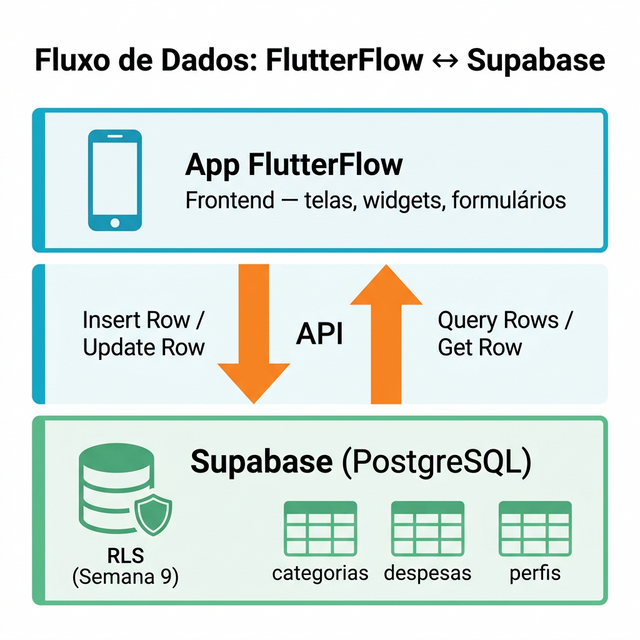
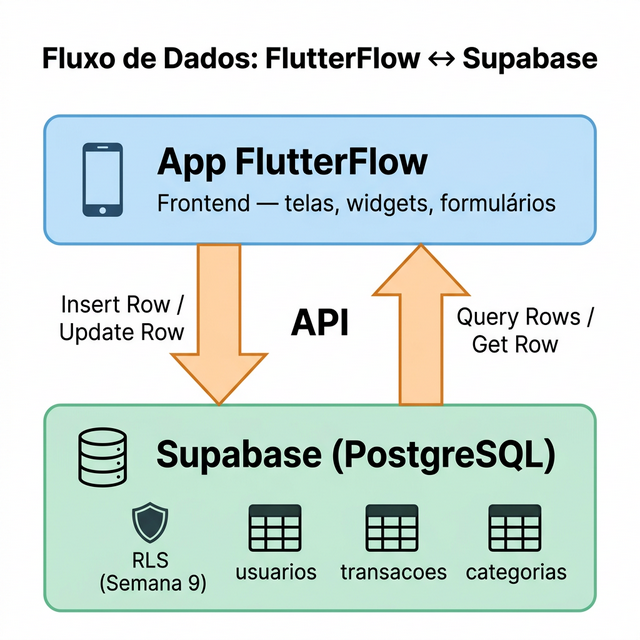
docs: atualização de figuras

diff --git a/OEBPS/text/sem06.html b/OEBPS/text/sem06.html
@@ -662,52 +662,68 @@ ESTRUTURA DE DADOS
 Categoria: nome, icone, cor
 Transação: tipo (Renda ou Despesa), descricao, valor, data, categoria, usuario
 
-TELAS
+PÁGINAS (gerar uma por vez no FlutterFlow)
 
-1) Login / Cadastro
+1) Login (página: login)
+- Abas "Criar Conta" e "Entrar"
 - Campo de e-mail
-- Campo de senha
-- Botão "Entrar"
-- Link "Criar conta"
-- Layout centralizado e simples
+- Campo de senha com botão mostrar/ocultar
+- Campo de confirmar senha (aba Criar Conta)
+- Botão principal "Começar" / "Entrar"
+- Opção "Continuar com Google"
+- Logo do app no topo com fundo azul suave
 
-2) Home / Dashboard
-- AppBar com título "FinanCampus"
-- Card com o saldo do mês (rendas – despesas)
-- Lista com as 3 últimas transações
-- Botão flutuante (+) para adicionar transação
+2) Início (página: inicio)
+- AppBar com logo, ícone de busca e avatar do usuário
+- Seletor de mês com setas de navegação (◀ mês ▶)
+- Cards de resumo: Despesas, Saldo e Rendas
+- Lista de transações agrupadas por categoria
+  Cada grupo mostra: ícone da categoria | nome | descrição | valor
+- Botão flutuante "Adicionar" para nova transação
+- Barra de navegação inferior com 3 abas:
+  Estatísticas | Início | Configurações
 
-3) Lista de Transações
-- ListView com as transações do mês atual
-- Filtro por mês
-- Filtro por tipo (Renda / Despesa / Todas)
-- Filtro por categoria
-- Cada item em formato de card contendo:
-  ícone da categoria | tipo | descrição | valor | data
+3) Relatório (página: relatorio)
+- Título "Estatísticas" com ícone de busca
+- Seletor de mês com setas de navegação
+- Barra de overview (gráfico horizontal) com proporção visual
+  de despesas vs. rendas
+- Seção "Detalhes" com lista por categoria:
+  ícone da categoria | nome | quantidade de transações | valor | percentual
+- Ícone decorativo (caixa vazia) quando não houver dados
 
-4) Nova Transação
+4) Configurações (página: configuracoes)
+- Título "Configurações"
+- Card com avatar, nome e e-mail do usuário
+- Lista de opções:
+  Escolher idioma | Redefinir senha | Sair | Excluir conta | Doação
+- Cada opção com ícone à esquerda e seta à direita
+- Barra de navegação inferior (mesma das outras telas)
+
+5) Nova Transação (página: novaTransacao)
+- AppBar com seta de voltar e título "Nova transação"
 - Dropdown para tipo (Renda ou Despesa)
 - Dropdown para categoria
 - Campo numérico para valor
-- Seletor de data
 - Campo de descrição (opcional)
-- Botão "Salvar"
+- Seletor de data
+- Botão "Adicionar" com largura total
 
-5) Detalhe da Transação / Editar
-- Exibir todos os dados da transação
-- Botão "Editar"
-- Botão "Excluir"
+6) Editar Transação (página: editarTransacao)
+- AppBar com seta de voltar e título "Editar"
+- Mesmos campos da tela Nova Transação, pré-preenchidos
+  com os dados da transação selecionada
+- Botão "Editar" com largura total
+- Link "Excluir" em vermelho abaixo do botão
 
-6) Configurações
-- E-mail do usuário
-- Botão "Sair"
-
-FUNCIONALIDADES EXTRAS
-- Gráfico de transações por categoria no dashboard
-- Totalizadores de renda e despesa no mês
+7) Buscar Transação (página: buscarTransacao)
+- Campo de busca por texto (descrição da transação)
+- Filtros por tipo, categoria e período
+- Lista de resultados no mesmo formato da tela Início
 
 NAVEGAÇÃO
-Utilizar navegação clara entre Dashboard, Transações e Configurações.
+Barra de navegação inferior fixa com 3 abas:
+Estatísticas (relatorio) | Início (inicio) | Configurações (configuracoes).
 Garantir responsividade para celulares Android.</pre>
             </figure>
 
@@ -789,33 +805,33 @@ INSERT INTO categorias (nome, icone, cor) VALUES
                 <tbody>
                     <tr>
                         <td><strong>Create</strong></td>
-                        <td>Tela "Nova Transação"</td>
+                        <td>Tela "Nova Transação" (<code>novaTransacao</code>)</td>
                         <td>Insert Row em <em>transacoes</em></td>
-                        <td>Tela "Listagem de Transações"</td>
+                        <td>Tela "Início" (<code>inicio</code>)</td>
                     </tr>
                     <tr>
                         <td><strong>Read (lista)</strong></td>
-                        <td>Tela "Listagem de Transações"</td>
+                        <td>Tela "Início" (<code>inicio</code>)</td>
                         <td>Query Rows em <em>transacoes</em></td>
                         <td>—</td>
                     </tr>
                     <tr>
                         <td><strong>Read (detalhe)</strong></td>
-                        <td>Listagem → clique no item</td>
+                        <td>Início → clique no item</td>
                         <td>Get Single Row em <em>transacoes</em></td>
-                        <td>Tela "Detalhe da Transação"</td>
+                        <td>Tela "Editar Transação" (<code>editarTransacao</code>)</td>
                     </tr>
                     <tr>
                         <td><strong>Update</strong></td>
-                        <td>Tela "Editar Transação"</td>
+                        <td>Tela "Editar Transação" (<code>editarTransacao</code>)</td>
                         <td>Update Row em <em>transacoes</em></td>
-                        <td>Tela "Detalhe da Transação"</td>
+                        <td>Tela "Início" (<code>inicio</code>)</td>
                     </tr>
                     <tr>
                         <td><strong>Delete</strong></td>
-                        <td>Tela "Detalhe da Transação"</td>
+                        <td>Tela "Editar Transação" (<code>editarTransacao</code>)</td>
                         <td>Delete Row em <em>transacoes</em></td>
-                        <td>Tela "Listagem de Transações"</td>
+                        <td>Tela "Início" (<code>inicio</code>)</td>
                     </tr>
                 </tbody>
             </table>
@@ -880,27 +896,43 @@ INSERT INTO categorias (nome, icone, cor) VALUES
                                 class="icon-img" alt="Estudo de Caso"><strong>📱 Estudo de Caso — Semana 6</strong>
                         </div>
                         <div>
+                            <p><strong>Telas implementadas nesta semana:</strong></p>
+                            <ul>
+                                <li><strong>Login</strong> (<code>login</code>) — Criar conta / Entrar com e-mail e
+                                    senha.</li>
+                                <li><strong>Nova Transação</strong> (<code>novaTransacao</code>) — Formulário de
+                                    criação.</li>
+                                <li><strong>Editar Transação</strong> (<code>editarTransacao</code>) — Formulário de
+                                    edição e exclusão.</li>
+                            </ul>
                             <p><strong>Fluxos CRUD implementados para a entidade Transação:</strong></p>
                             <ul>
-                                <li><strong>Create:</strong> Tela "Nova Transação" → Action: Validate Form → Insert Row
-                                    em
-                                    <em>transacoes</em> → Navigate Back para "Lista de Transações".
+                                <li><strong>Create:</strong> Tela "Nova Transação" (<code>novaTransacao</code>)
+                                    → Action: Validate Form → Insert Row em
+                                    <em>transacoes</em> → Navigate Back para "Início".
                                 </li>
-                                <li><strong>Read (lista):</strong> Tela "Home" e "Lista" → Query Rows em
+                                <li><strong>Read (lista):</strong> Tela "Início" (<code>inicio</code>)
+                                    → Query Rows em
                                     <em>transacoes</em> filtrado por <code>usuario_id = currentUserUid</code>, ordenado
-                                    por <code>data DESC</code>.
+                                    por <code>data DESC</code>, agrupado por categoria.
                                 </li>
-                                <li><strong>Read (detalhe):</strong> Toque no item da lista → passa o ID como parâmetro
-                                    → Get Single Row em <em>transacoes</em>.</li>
-                                <li><strong>Update:</strong> Tela "Editar Transação" → pré-preenche campos → Update Row
-                                    onde <code>id = transacao.id</code>.</li>
-                                <li><strong>Delete:</strong> Botão "Excluir" na tela de detalhe → Alert Dialog de
-                                    confirmação → Delete Row → Navigate Back.</li>
+                                <li><strong>Read (detalhe):</strong> Toque no item da lista
+                                    → passa o ID como parâmetro
+                                    → Get Single Row em <em>transacoes</em>
+                                    → abre a tela "Editar Transação" (<code>editarTransacao</code>)
+                                    com os campos pré-preenchidos.</li>
+                                <li><strong>Update:</strong> Tela "Editar Transação" (<code>editarTransacao</code>)
+                                    → pré-preenche campos → Update Row
+                                    onde <code>id = transacao.id</code>
+                                    → Navigate Back para "Início".</li>
+                                <li><strong>Delete:</strong> Link "Excluir" (em vermelho) na tela
+                                    "Editar Transação" → Alert Dialog de
+                                    confirmação → Delete Row → Navigate Back para "Início".</li>
                             </ul>
                             <p><strong>Seeds adicionais inseridos:</strong> 10 transações de exemplo (5 rendas + 5
                                 despesas)
                                 distribuídas em 5 categorias, com valores e datas variados, para testar a listagem e os
-                                filtros da tela principal.</p>
+                                filtros da tela Início.</p>
                         </div>
                     </td>
                 </tr>

diff --git a/OEBPS/text/sem05.html b/OEBPS/text/sem05.html
@@ -72,6 +72,12 @@
                                     gratuito, acessado via internet. É o que usaremos a partir da
                                     <strong>Semana 6</strong>.
                                 </li>
+                                <li><strong>Firebase / Firestore (nuvem):</strong> banco de dados
+                                    NoSQL do Google, também integrado nativamente ao FlutterFlow.
+                                    É uma alternativa popular, mas como é não-relacional (NoSQL),
+                                    não utiliza SQL — por isso optamos pelo Supabase neste projeto,
+                                    que é relacional e permite praticar comandos SQL.
+                                </li>
                             </ul>
                             <p>Por isso, a estratégia adotada neste projeto é: <strong>preparar a
                                     estrutura do banco nesta semana</strong> (scripts SQL, tipos, relacionamentos)

diff --git a/OEBPS/text/sem04.html b/OEBPS/text/sem04.html
@@ -75,7 +75,7 @@
                     <tr>
                         <td><strong>Entidade</strong></td>
                         <td>Objeto ou conceito do mundo real</td>
-                        <td>Usuário, Produto, Pedido</td>
+                        <td>Usuário, Categoria, Transação</td>
                     </tr>
                     <tr>
                         <td><strong>Atributo</strong></td>
